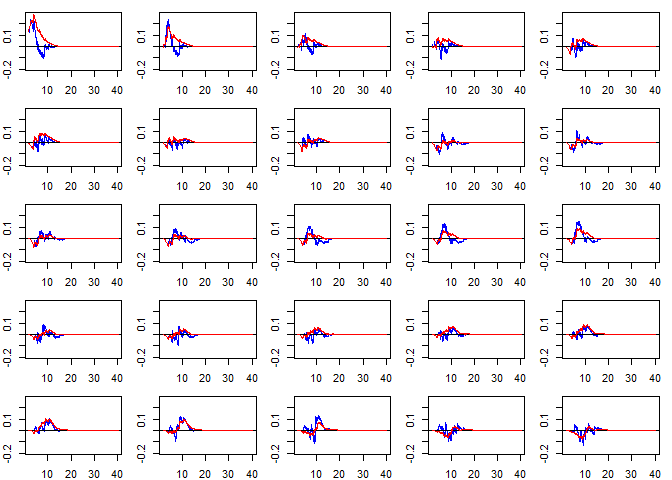
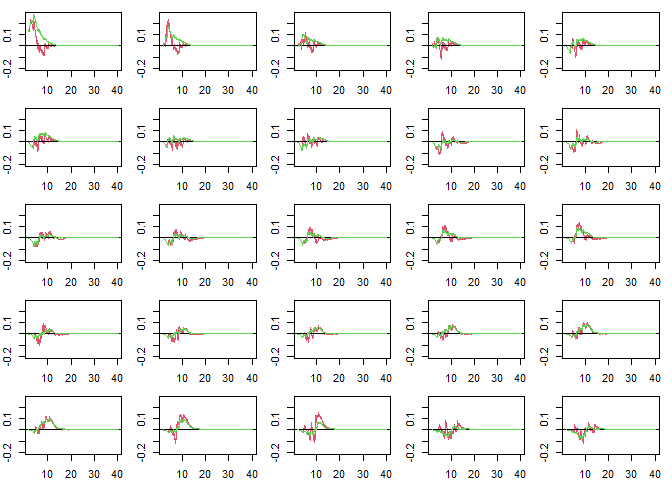
Updated 'README'

diff --git a/README.md b/README.md
@@ -21,15 +21,10 @@ devtools::install_github("AlexandreMoesching/LRDistReg")
 ## PART 1: True model (parametric)
 
 The present demo uses a gamma family of distributions
-![(Q_x)\_{x\in \mathfrak{X}](https://latex.codecogs.com/png.image?%5Cdpi%7B110%7D&space;%5Cbg_white&space;%28Q_x%29_%7Bx%5Cin%20%5Cmathfrak%7BX%7D "(Q_x)_{x\in \mathfrak{X}").
-More precisely
-
-![Q_x := \mathrm{Gamma}\bigl(a(x), b(x)\bigr),\quad \text{for all}\\ x \in \mathfrak{X} := \[1,4\],](https://latex.codecogs.com/png.image?%5Cdpi%7B110%7D&space;%5Cbg_white&space;Q_x%20%3A%3D%20%5Cmathrm%7BGamma%7D%5Cbigl%28a%28x%29%2C%20b%28x%29%5Cbigr%29%2C%5Cquad%20%5Ctext%7Bfor%20all%7D%5C%20x%20%5Cin%20%5Cmathfrak%7BX%7D%20%3A%3D%20%5B1%2C4%5D%2C "Q_x := \mathrm{Gamma}\bigl(a(x), b(x)\bigr),\quad \text{for all}\ x \in \mathfrak{X} := [1,4],")
-
-with some shape
-![a: \mathfrak{X} \to (0,\infty)](https://latex.codecogs.com/png.image?%5Cdpi%7B110%7D&space;%5Cbg_white&space;a%3A%20%5Cmathfrak%7BX%7D%20%5Cto%20%280%2C%5Cinfty%29 "a: \mathfrak{X} \to (0,\infty)")
-and scale
-![b: \mathfrak{X} \to (0,\infty)](https://latex.codecogs.com/png.image?%5Cdpi%7B110%7D&space;%5Cbg_white&space;b%3A%20%5Cmathfrak%7BX%7D%20%5Cto%20%280%2C%5Cinfty%29 "b: \mathfrak{X} \to (0,\infty)").
+$(Q_x)_{x\in \mathfrak{X}}$. More precisely $$
+Q_x := \mathrm{Gamma}\bigl(a(x), b(x)\bigr),\quad \text{for all}\ x \in \mathfrak{X} := [1,4],
+$$ with some shape $a: \mathfrak{X} \to (0,\infty)$ and scale
+$b: \mathfrak{X} \to (0,\infty)$.
 
 ``` r
 rm(list = ls())
@@ -42,11 +37,9 @@ d.cond.dist <- function(x, y) dgamma(y, shape = a(x), scale = b(x))
 q.cond.dist <- function(x, alpha) qgamma(alpha, shape = a(x), scale = b(x))
 ```
 
-Visual output of the true family of distributions. For each
-![(x,y)](https://latex.codecogs.com/png.image?%5Cdpi%7B110%7D&space;%5Cbg_white&space;%28x%2Cy%29 "(x,y)")
-in a certain rectangle, the value of
-![(\mathrm{d}P_x/\mathrm{d}y)(y)](https://latex.codecogs.com/png.image?%5Cdpi%7B110%7D&space;%5Cbg_white&space;%28%5Cmathrm%7Bd%7DP_x%2F%5Cmathrm%7Bd%7Dy%29%28y%29 "(\mathrm{d}P_x/\mathrm{d}y)(y)")
-is given by the color scale.
+Visual output of the true family of distributions. For each $(x,y)$ in a
+certain rectangle, the value of $(\mathrm{d}P_x/\mathrm{d}y)(y)$ is
+given by the color scale.
 
 ``` r
 xx <- seq(1, 4, length.out = 2e2)
@@ -73,12 +66,9 @@ contour(xx, yy, outer(xx, yy, FUN = "d.cond.dist"),
 
 ## PART 2: Small data example, first (nonparametric) fit
 
-Let us start with a small sample:
-![n = 30](https://latex.codecogs.com/png.image?%5Cdpi%7B110%7D&space;%5Cbg_white&space;n%20%3D%2030 "n = 30")
-observations with covariates in a set
-![\mathfrak{X}\_o := 1 + 3\*\\{1,2,...,\ell_o\\}/\ell_o](https://latex.codecogs.com/png.image?%5Cdpi%7B110%7D&space;%5Cbg_white&space;%5Cmathfrak%7BX%7D_o%20%3A%3D%201%20%2B%203%2A%5C%7B1%2C2%2C...%2C%5Cell_o%5C%7D%2F%5Cell_o "\mathfrak{X}_o := 1 + 3*\{1,2,...,\ell_o\}/\ell_o"),
-for
-![\ell_o = 10](https://latex.codecogs.com/png.image?%5Cdpi%7B110%7D&space;%5Cbg_white&space;%5Cell_o%20%3D%2010 "\ell_o = 10").
+Let us start with a small sample: $n = 30$ observations with covariates
+in a set $\mathfrak{X}_o := 1 + 3*\{1,2,...,\ell_o\}/\ell_o$, for
+$\ell_o = 10$.
 
 ``` r
 n <- 30
@@ -86,8 +76,7 @@ ell0 <- 10
 x0 <- 1+(1:ell0)/ell0*3
 ```
 
-Generate observation pairs
-![(X_1,Y_1),(X_2,Y_2),...,(X_N,Y_N)](https://latex.codecogs.com/png.image?%5Cdpi%7B110%7D&space;%5Cbg_white&space;%28X_1%2CY_1%29%2C%28X_2%2CY_2%29%2C...%2C%28X_N%2CY_N%29 "(X_1,Y_1),(X_2,Y_2),...,(X_N,Y_N)").
+Generate observation pairs $(X_1,Y_1),(X_2,Y_2),...,(X_n,Y_n)$.
 
 ``` r
 X <- sort(sample(x0, size = n, replace = TRUE))
@@ -106,23 +95,14 @@ res <- dist.reg(X, Y, show.design = TRUE)
 <img src="man/figures/README-fit-1.png" width="100%" />
 
 The design of the experiment should be shown. The color of a pair
-![(x,y)](https://latex.codecogs.com/png.image?%5Cdpi%7B110%7D&space;%5Cbg_white&space;%28x%2Cy%29 "(x,y)")
-is equal to the number of observations at that location, plus 1. In
-consequence, black points contain no observations, red points contain
+$(x,y)$ is equal to the number of observations at that location, plus 1.
+In consequence, black points contain no observations, red points contain
 one observation pair, green points contain two observation pairs, etc.
 
-If `indices = TRUE`, then the values
-![1,2,...,ell](https://latex.codecogs.com/png.image?%5Cdpi%7B110%7D&space;%5Cbg_white&space;1%2C2%2C...%2Cell "1,2,...,ell")
-are used for the plot instead of the unique elements
-![x_1 \< x_2 \< ... \< x\_\ell](https://latex.codecogs.com/png.image?%5Cdpi%7B110%7D&space;%5Cbg_white&space;x_1%20%3C%20x_2%20%3C%20...%20%3C%20x_%5Cell "x_1 < x_2 < ... < x_\ell")
-of
-![\\{X_1,X_2,...,X_n\\}](https://latex.codecogs.com/png.image?%5Cdpi%7B110%7D&space;%5Cbg_white&space;%5C%7BX_1%2CX_2%2C...%2CX_n%5C%7D "\{X_1,X_2,...,X_n\}"),
-and the values
-![1,2,...,m](https://latex.codecogs.com/png.image?%5Cdpi%7B110%7D&space;%5Cbg_white&space;1%2C2%2C...%2Cm "1,2,...,m")
-are used instead of the unique elements
-![y_1 \< y_2 \< ... \< y_m](https://latex.codecogs.com/png.image?%5Cdpi%7B110%7D&space;%5Cbg_white&space;y_1%20%3C%20y_2%20%3C%20...%20%3C%20y_m "y_1 < y_2 < ... < y_m")
-of
-![\\{Y_1,Y_2,...,Y_n\\}](https://latex.codecogs.com/png.image?%5Cdpi%7B110%7D&space;%5Cbg_white&space;%5C%7BY_1%2CY_2%2C...%2CY_n%5C%7D "\{Y_1,Y_2,...,Y_n\}").
+If `indices = TRUE`, then the values $1,2,...,ell$ are used for the plot
+instead of the unique elements $x_1 < x_2 < ... < x_\ell$ of
+$\{X_1,X_2,...,X_n\}$, and the values $1,2,...,m$ are used instead of
+the unique elements $y_1 < y_2 < ... < y_m$ of $\{Y_1,Y_2,...,Y_n\}$.
 This improves readability of the design plot.
 
 ``` r
@@ -133,38 +113,30 @@ res <- dist.reg(X, Y, show.design = TRUE, indices = TRUE)
 
 The family of distributions is estimated at each points of this grid.
 The estimated conditional distribution functions are given by
-`res$CDF.LR`, an
-![\ell](https://latex.codecogs.com/png.image?%5Cdpi%7B110%7D&space;%5Cbg_white&space;%5Cell "\ell")-by-![m](https://latex.codecogs.com/png.image?%5Cdpi%7B110%7D&space;%5Cbg_white&space;m "m")
-matrix.
+`res$CDF_LR`, an $\ell$-by-$m$ matrix.
 
 ``` r
-res$CDF.LR
+res$CDF_LR
 ```
 
 One can also retrieve the jumps only.
 
 ``` r
-res$q.LR
-rowSums(res$q.LR)
+res$q_LR
+rowSums(res$q_LR)
 
-res$h.TP2
-rowSums(res$h.TP2); res$D.Setup$w_j.plus/res$D.Setup$n
-colSums(res$h.TP2); res$D.Setup$w_plus.k/res$D.Setup$n
+res$h_TP2
+rowSums(res$h_TP2); res$par$w_j.plus/res$par$n
+colSums(res$h_TP2); res$par$w_plus.k/res$par$n
 ```
 
 To see how the stopping criteria is reached along with the corresponding
 values of the negative log-likelihood, the echo option can be activated.
 
 ``` r
-res <- dist.reg(X, Y, echo = TRUE)
-#> iteration 0, delta = Inf, f(theta) = 164.9943
-#> iteration 1, delta = 0.7791124, f(theta) = 162.3362
-#> iteration 2, delta = 0.3810281, f(theta) = 161.9416
-#> iteration 3, delta = 0.09050999, f(theta) = 161.8116
-#> iteration 4, delta = 0.03770548, f(theta) = 161.7677
-#> iteration 5, delta = 0.009150678, f(theta) = 161.7546
+res <- dist.reg(X, Y)
 res$delta0
-#> [1] 0.01
+#> [1] 1e-08
 ```
 
 ## PART 3: Medium data example, specification of precision parameter
@@ -194,7 +166,7 @@ res <- dist.reg(X, Y, show.design = TRUE, delta0 = 1e-4)
 
 ``` r
 res$tot.time # Less than a tenth of a second on a 7th generation i7 CPU
-#> Time difference of 0.05826712 secs
+#> Time difference of 0.1159079 secs
 ```
 
 ## PART 4: A larger data example, comparison between Likelihood-Ratio ordering, usual STochastic ordering and the EMPirical
@@ -212,74 +184,55 @@ for (i in 1:n) Y[i] <- r.cond.dist(X[i])
 We let the program advise us a “reasonable” value for epsilon.
 
 ``` r
-res <- dist.reg(X, Y, suggest.delta0 = TRUE, IDR = TRUE, echo = TRUE)
-#> iteration 0, delta = Inf, f(theta) = 12082.71
-#> iteration 1, delta = 24581.73, f(theta) = 11888.85
-#> iteration 2, delta = 1702.676, f(theta) = 11811.1
-#> iteration 3, delta = 5127.211, f(theta) = 11775.15
-#> iteration 4, delta = 372.9345, f(theta) = 11754.68
-#> iteration 5, delta = 614.9382, f(theta) = 11745.79
-#> iteration 6, delta = 60.72897, f(theta) = 11740.94
-#> iteration 7, delta = 81.10216, f(theta) = 11738.33
-#> iteration 8, delta = 20.47268, f(theta) = 11731.7
-#> iteration 9, delta = 31.94151, f(theta) = 11728.15
-#> iteration 10, delta = 16.38659, f(theta) = 11726.98
-#> iteration 11, delta = 11.20272, f(theta) = 11724.46
-#> iteration 12, delta = 5.709401, f(theta) = 11721.37
+res <- dist.reg(X, Y, suggest.delta0 = TRUE, ST = TRUE)
 res$delta0
 #> [1] 10
 res$tot.time
-#> Time difference of 4.874189 secs
+#> Time difference of 8.363443 secs
 ```
 
 Retrieve all CDF’s and some useful parameters.
 
 ``` r
-x <- res$D.Setup$x
-y <- res$D.Setup$y
-ell <- res$D.Setup$ell
-m <- res$D.Setup$m
+x <- res$par$x
+y <- res$par$y
+ell <- res$par$ell
+m <- res$par$m
 
-CDF.LR <- res$CDF.LR
-CDF.ST <- res$CDF.ST
-CDF.EMP <- res$CDF.EMP
-CDF.TRUE <- outer(x, y, p.cond.dist)
+CDF_LR <- res$CDF_LR
+CDF_ST <- res$CDF_ST
+CDF_EMP <- res$CDF_EMP
+CDF_TRUE <- outer(x, y, p.cond.dist)
 ```
 
 Evaluate estimation quality.
 
 ``` r
-DIFF.LR <- sum(abs(CDF.LR - CDF.TRUE))/(ell*m)
-DIFF.ST <- sum(abs(CDF.ST - CDF.TRUE))/(ell*m)
-DIFF.EMP <- sum(abs(CDF.EMP - CDF.TRUE))/(ell*m)
-c(DIFF.LR, DIFF.ST, DIFF.EMP)
-#> [1] 0.01936299 0.02352673 0.05607067
+DIFF_LR <- sum(abs(CDF_LR - CDF_TRUE))/(ell*m)
+DIFF.ST <- sum(abs(CDF_ST - CDF_TRUE))/(ell*m)
+DIFF.EMP <- sum(abs(CDF_EMP - CDF_TRUE))/(ell*m)
+c(DIFF_LR, DIFF.ST, DIFF.EMP)
+#> [1] 0.01942025 0.02366766 0.05607067
 ```
 
-Plot the true CDF
-![F_x](https://latex.codecogs.com/png.image?%5Cdpi%7B110%7D&space;%5Cbg_white&space;F_x "F_x")
-as well as its estimators for two values of
-![x](https://latex.codecogs.com/png.image?%5Cdpi%7B110%7D&space;%5Cbg_white&space;x "x"),
-one middle covariate
-(![x = 2.5](https://latex.codecogs.com/png.image?%5Cdpi%7B110%7D&space;%5Cbg_white&space;x%20%3D%202.5 "x = 2.5"))
-and one boundary covariate
-(![x = 4](https://latex.codecogs.com/png.image?%5Cdpi%7B110%7D&space;%5Cbg_white&space;x%20%3D%204 "x = 4")).
+Plot the true CDF $F_x$ as well as its estimators for two values of $x$,
+one middle covariate ($x = 2.5$) and one boundary covariate ($x = 4$).
 
 ``` r
 par(mfrow = c(2,1), mar = c(4.1,4.1,0.2,0.2))
 xx <- c(2.5, 4)
 for (xj in xx) {
   j <- which(xj == x)
-  plot(y, CDF.TRUE[j,], type = "l",
+  plot(y, CDF_TRUE[j,], type = "l",
        xlab = expression(italic(y)),
        ylab = expression(italic(f[x](y))),
        lwd = 2)
-  lines(y, CDF.EMP[j,], lty = 2)
-  lines(y, CDF.ST[j,], col = "blue", lwd = 2)
-  lines(y, CDF.LR[j,], col = "red", lwd = 2)
+  lines(y, CDF_EMP[j,], lty = 2)
+  lines(y, CDF_ST[j,], col = 2, lwd = 2)
+  lines(y, CDF_LR[j,], col = 3, lwd = 2)
   legend("topleft", 
          legend = c("True", "EMP", "ST", "LR"),
-         col = c(1,1,4,2), lty = c(1,2,1,1), lwd = c(2,1,2,2))
+         col = c(1,1,2,3), lty = c(1,2,1,1), lwd = c(2,1,2,2))
 }
 ```
 
@@ -292,30 +245,25 @@ when looking at average absolute differences. Try deactivating the
 set.seed to see other outputs.
 
 Plot differences between the true CDF and LR/ST-estimators for all
-values of
-![x](https://latex.codecogs.com/png.image?%5Cdpi%7B110%7D&space;%5Cbg_white&space;x "x").
-N.b.: it yields 4 pages of plots.
+values of $x$. N.b.: it yields 4 pages of plots.
 
 ``` r
 n.plot <- min(ceiling(sqrt(ell)), 5)
 par(mfrow = c(n.plot, n.plot), mar = c(2,2,1,1))
-unif.ylim <- range(c(CDF.LR - CDF.TRUE, CDF.ST - CDF.TRUE))
+unif.ylim <- range(c(CDF_LR - CDF_TRUE, CDF_ST - CDF_TRUE))
 for (j in 1:ell) {
-  plot(y, CDF.ST[j,] - CDF.TRUE[j,], type = "l", col = "blue", 
+  plot(y, CDF_ST[j,] - CDF_TRUE[j,], type = "l", col = 2, 
        lwd = 1, ylim = unif.ylim)
   abline(h = 0)
-  lines(y, CDF.LR[j,] - CDF.TRUE[j,], col = "red", lwd = 1)
+  lines(y, CDF_LR[j,] - CDF_TRUE[j,], col = 3, lwd = 1)
 }
 ```
 
 ## PART 5: Interpolation feature
 
-In case the estimators are desired for other values of
-![x](https://latex.codecogs.com/png.image?%5Cdpi%7B110%7D&space;%5Cbg_white&space;x "x")
-than those provided by the set of covariates, it is still possible to
-obtain the estimated CDFs at these other
-![x](https://latex.codecogs.com/png.image?%5Cdpi%7B110%7D&space;%5Cbg_white&space;x "x")’s
-using linear interpolation
+In case the estimators are desired for other values of $x$ than those
+provided by the set of covariates, it is still possible to obtain the
+estimated CDFs at these other $x$’s using linear interpolation
 
 ``` r
 n <- 50
@@ -326,13 +274,13 @@ X <- sort(sample(x0, size = n, replace = TRUE))
 Y <- rep(0, n)
 for (i in 1:n) Y[i] <- r.cond.dist(X[i])
 
-res <- dist.reg(X, Y, suggest.delta0 = TRUE, IDR = TRUE)
-dim(res$CDF.LR); dim(res$CDF.ST); dim(res$CDF.EMP)
+res <- dist.reg(X, Y, suggest.delta0 = TRUE, ST = TRUE)
+dim(res$CDF_LR); dim(res$CDF_ST); dim(res$CDF_EMP)
 #> [1] 28 50
 #> [1] 28 50
 #> [1] 28 50
-res <- dist.reg(X, Y, suggest.delta0 = TRUE, IDR = TRUE, x0 = x0)
-dim(res$CDF.LR); dim(res$CDF.ST); dim(res$CDF.EMP)
+res <- dist.reg(X, Y, suggest.delta0 = TRUE, ST = TRUE, x0 = x0)
+dim(res$CDF_LR); dim(res$CDF_ST); dim(res$CDF_EMP)
 #> [1] 50 50
 #> [1] 50 50
 #> [1] 50 50
